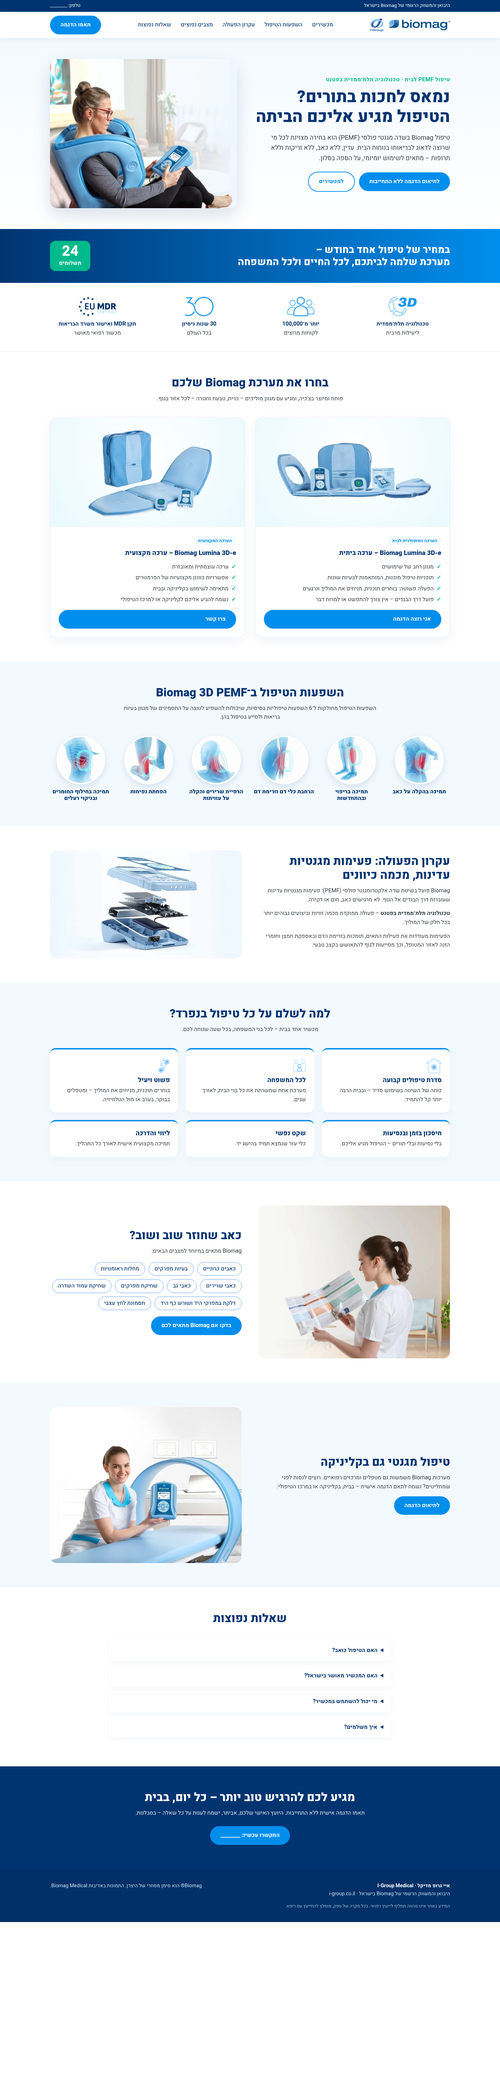
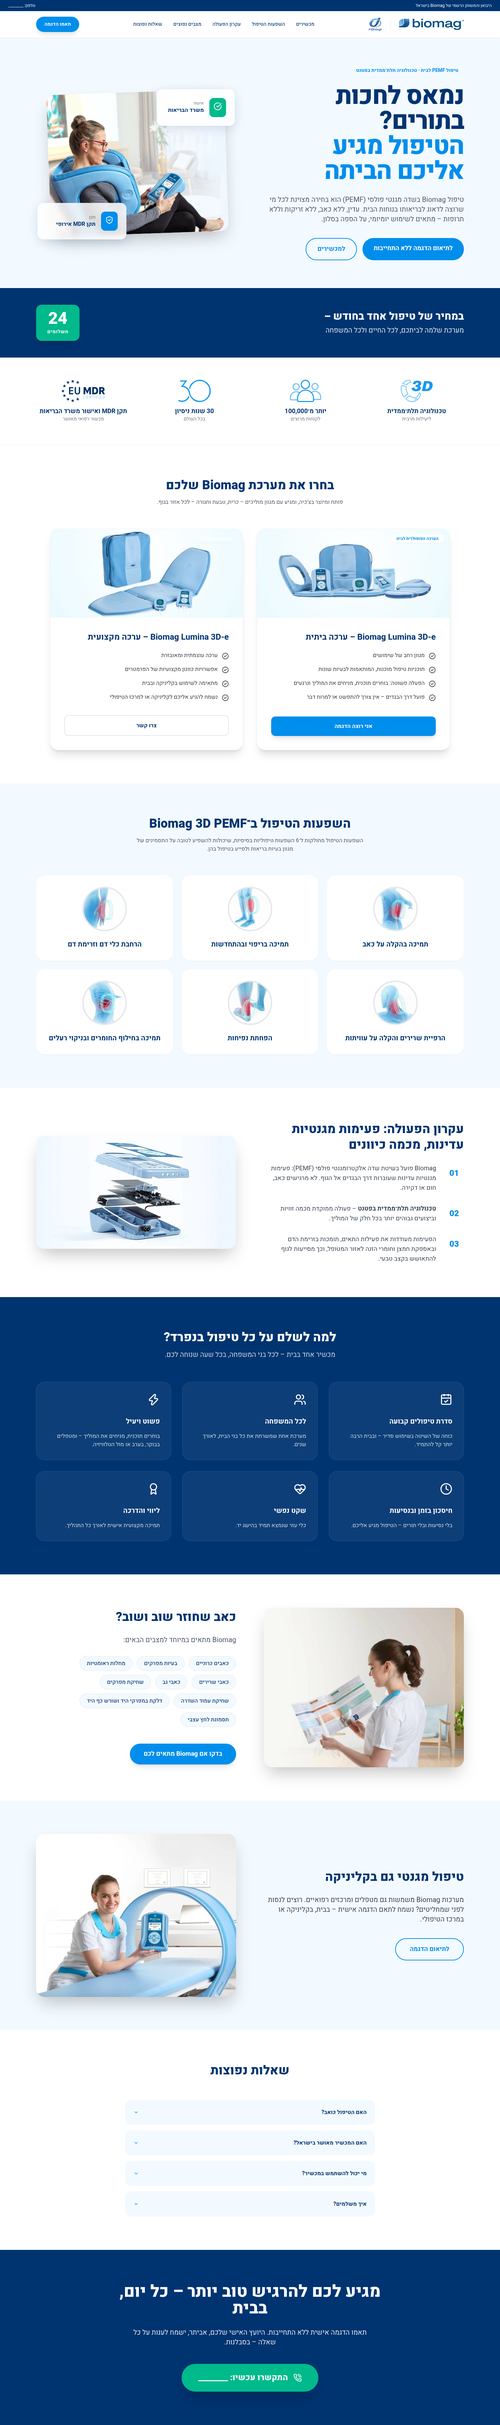
Superdesign modern medical redesign

diff --git a/index.html b/index.html
@@ -1,6 +1,4 @@
-<!doctype html>
-<html lang="he" dir="rtl">
-<head>
+<!DOCTYPE html><html lang="he" dir="rtl"><head>
 <meta charset="utf-8">
 <meta name="viewport" content="width=device-width,initial-scale=1">
 <title>Biomag – טיפול ביתי בשדה מגנטי פולסי (PEMF) | איי גרופ מדיקל</title>
@@ -32,137 +30,4 @@
 {"@type":"Question","name":"האם הטיפול כואב?","acceptedAnswer":{"@type":"Answer","text":"לא. הפעימות המגנטיות עדינות ועוברות דרך הבגדים, ללא כאב, ללא חום וללא דקירה."}},
 {"@type":"Question","name":"האם המכשיר מאושר בישראל?","acceptedAnswer":{"@type":"Answer","text":"כן. המכשיר מאושר על ידי משרד הבריאות ועומד בתקן האירופי למכשור רפואי (MDR)."}},
 {"@type":"Question","name":"איך משלמים?","acceptedAnswer":{"@type":"Answer","text":"במחיר של טיפול אחד בחודש, בפריסה ל־24 תשלומים."}}]}]}
-</script>
-<style>
-:root{--navy:#003471;--navy2:#003067;--blue:#008EEC;--sky:#579AF6;--green:#00BA8B;--light:#F3FAFF;--grey:#BFC3C8;--text:#32373C}
-*{box-sizing:border-box;margin:0;padding:0}body{font-family:Heebo,Roboto,sans-serif;color:var(--text);line-height:1.6;background:#fff}
-img{max-width:100%;display:block}a{color:inherit;text-decoration:none}
-.wrap{max-width:1200px;margin:auto;padding:0 24px}
-h1,h2,h3{color:var(--navy);line-height:1.2;font-weight:800}h2{font-size:2.1rem;margin-bottom:12px}
-.btn{display:inline-block;background:var(--blue);color:#fff;font-weight:700;padding:14px 30px;border-radius:40px;transition:.2s}.btn:hover{background:var(--navy)}
-.btn.ghost{background:transparent;border:2px solid var(--blue);color:var(--blue)}
-.top{background:var(--navy);color:#fff;font-size:.85rem;padding:6px 0}.top .wrap{display:flex;justify-content:space-between}
-header{position:sticky;top:0;background:#fff;box-shadow:0 2px 12px #0034711a;z-index:9}
-header .wrap{display:flex;align-items:center;justify-content:space-between;height:76px}
-header nav a{margin:0 14px;font-weight:500;color:var(--navy)}header nav a:hover{color:var(--blue)}
-.logos{display:flex;align-items:center;gap:16px}.logos img{height:30px}
-.hero{background:linear-gradient(180deg,var(--light),#fff);padding:60px 0}
-.hero .wrap{display:grid;grid-template-columns:1.05fr 1fr;gap:48px;align-items:center}
-.kicker{color:var(--green);font-weight:700;letter-spacing:.5px;margin-bottom:8px}
-.hero h1{font-size:3rem;margin-bottom:16px}.hero p{font-size:1.15rem;margin-bottom:24px}
-.hero img{border-radius:20px;box-shadow:0 20px 50px #00347126}
-.offer{background:linear-gradient(90deg,var(--navy),var(--blue));color:#fff;padding:34px 0}
-.offer .wrap{display:flex;align-items:center;justify-content:space-between;gap:24px;flex-wrap:wrap}
-.offer h2{color:#fff;font-size:1.8rem;margin:0}.badge{background:var(--green);border-radius:16px;padding:10px 26px;text-align:center;font-weight:700}
-.badge b{display:block;font-size:2.6rem;line-height:1}
-.trust{padding:40px 0;border-bottom:1px solid #e6e6e6}.trust .wrap{display:grid;grid-template-columns:repeat(4,1fr);gap:20px;text-align:center}
-.trust img{height:56px;margin:0 auto 10px}.trust b{color:var(--navy);display:block}
-section{padding:70px 0}.center{text-align:center;max-width:760px;margin:0 auto 40px}
-.sets{display:grid;grid-template-columns:1fr 1fr;gap:30px}
-.card{background:#fff;border:1px solid #e6eef7;border-radius:20px;overflow:hidden;box-shadow:0 10px 30px #0034710f;display:flex;flex-direction:column}
-.card .b{padding:24px;flex:1;display:flex;flex-direction:column;gap:10px}.card ul{list-style:none;flex:1}
-.card li{padding-right:22px;position:relative;margin:6px 0}.card li:before{content:"✓";color:var(--green);position:absolute;right:0;font-weight:800}
-.tag{align-self:flex-start;background:var(--light);color:var(--blue);font-weight:700;font-size:.8rem;padding:4px 12px;border-radius:20px}
-.light{background:var(--light)}
-.effects{display:grid;grid-template-columns:repeat(6,1fr);gap:18px;text-align:center}
-.effects img{border-radius:50%;width:140px;height:140px;object-fit:cover;margin:0 auto 12px;border:4px solid #fff;box-shadow:0 8px 20px #00347120}
-.effects h3{font-size:1rem}
-.split{display:grid;grid-template-columns:1fr 1fr;gap:48px;align-items:center}.split img{border-radius:20px}
-.split p{margin-bottom:14px}
-.why{display:grid;grid-template-columns:repeat(3,1fr);gap:22px}
-.why div{background:#fff;border-radius:16px;padding:24px;border-top:4px solid var(--blue);box-shadow:0 8px 24px #0034710d}
-.why h3{font-size:1.15rem;margin-bottom:6px}
-.chips{display:flex;flex-wrap:wrap;gap:10px;margin:18px 0}.chips span{background:#fff;border:1px solid var(--sky);color:var(--navy);padding:6px 16px;border-radius:30px;font-weight:500}
-.faq details{background:#fff;border-radius:12px;padding:18px 22px;margin-bottom:12px;box-shadow:0 4px 14px #0034710d}
-.faq summary{font-weight:700;color:var(--navy);cursor:pointer}
-.cta{background:var(--navy);color:#fff;text-align:center}.cta h2{color:#fff}.cta p{margin-bottom:24px;opacity:.9}
-footer{background:var(--navy2);color:#cfe0f5;padding:36px 0;font-size:.9rem}footer .wrap{display:flex;justify-content:space-between;gap:20px;flex-wrap:wrap}
-.disc{font-size:.8rem;opacity:.75;margin-top:14px}
-@media(max-width:900px){.hero .wrap,.sets,.split{grid-template-columns:1fr}.effects{grid-template-columns:repeat(3,1fr)}.trust .wrap,.why{grid-template-columns:1fr 1fr}header nav{display:none}.hero h1{font-size:2.2rem}}
-</style>
-</head>
-<body>
-<div class="top"><div class="wrap"><span>היבואן והמשווק הרשמי של Biomag בישראל</span><span>טלפון: ________</span></div></div>
-<header><div class="wrap">
-<div class="logos"><img src="img/logo.svg" alt="Biomag"><img src="img/igroup-logo.png" alt="איי גרופ מדיקל" style="height:40px"></div>
-<nav><a href="#sets">מכשירים</a><a href="#effects">השפעות הטיפול</a><a href="#principle">עקרון הפעולה</a><a href="#conditions">מצבים נפוצים</a><a href="#faq">שאלות נפוצות</a></nav>
-<a class="btn" href="#contact">תאמו הדגמה</a></div></header>
-
-<section class="hero" style="padding:60px 0"><div class="wrap">
-<div><div class="kicker">טיפול PEMF לבית · טכנולוגיה תלת־ממדית בפטנט</div>
-<h1>נמאס לחכות בתורים?<br>הטיפול מגיע אליכם הביתה</h1>
-<p>טיפול Biomag בשדה מגנטי פולסי (PEMF) הוא בחירה מצוינת לכל מי שרוצה לדאוג לבריאותו בנוחות הבית. עדין, ללא כאב, ללא זריקות וללא תרופות – מתאים לשימוש יומיומי, על הספה בסלון.</p>
-<a class="btn" href="#contact">לתיאום הדגמה ללא התחייבות</a> &nbsp; <a class="btn ghost" href="#sets">למכשירים</a></div>
-<img src="img/hero-home.jpg" alt="אישה מטפלת בעצמה בבית עם מכשיר Biomag"></div></section>
-
-<div class="offer"><div class="wrap"><h2>במחיר של טיפול אחד בחודש –<br>מערכת שלמה לביתכם, לכל החיים ולכל המשפחה</h2><div class="badge"><b>24</b>תשלומים</div></div></div>
-
-<div class="trust"><div class="wrap">
-<div><img src="img/3d-technologie.svg" alt=""><b>טכנולוגיה תלת־ממדית</b>ליעילות מרבית</div>
-<div><img src="img/100-000-spokojenych-zakazniku.svg" alt=""><b>יותר מ־100,000</b>לקוחות מרוצים</div>
-<div><img src="img/pomahame-jiz-30-let.svg" alt=""><b>30 שנות ניסיון</b>בכל העולם</div>
-<div><img src="img/eu-mdr-biomag-certified.svg" alt=""><b>תקן MDR ואישור משרד הבריאות</b>מכשור רפואי מאושר</div>
-</div></div>
-
-<section id="sets"><div class="wrap">
-<div class="center"><h2>בחרו את מערכת Biomag שלכם</h2><p>פותח ומיוצר בצ'כיה, ומגיע עם מגוון מוליכים – כרית, טבעת וחגורה – לכל אזור בגוף.</p></div>
-<div class="sets">
-<div class="card"><img src="img/set-fse.jpg" alt="ערכת Biomag Lumina 3D-e לטיפול ביתי"><div class="b"><span class="tag">הערכה הפופולרית לבית</span><h3>Biomag Lumina 3D-e – ערכה ביתית</h3><ul><li>מגוון רחב של שימושים</li><li>תוכניות טיפול מוכנות, המותאמות לבעיות שונות</li><li>הפעלה פשוטה: בוחרים תוכנית, מניחים את המוליך ונרגעים</li><li>פועל דרך הבגדים – אין צורך להתפשט או למרוח דבר</li></ul><a class="btn" href="#contact">אני רוצה הדגמה</a></div></div>
-<div class="card"><img src="img/set-nte.jpg" alt="ערכת Biomag Lumina 3D-e מקצועית"><div class="b"><span class="tag">הערכה המקצועית</span><h3>Biomag Lumina 3D-e – ערכה מקצועית</h3><ul><li>ערכה עוצמתית ומאובזרת</li><li>אפשרויות כוונון מקצועיות של הפרמטרים</li><li>מתאימה לשימוש בקליניקה ובבית</li><li>נשמח להגיע אליכם לקליניקה או למרכז הטיפולי</li></ul><a class="btn" href="#contact">צרו קשר</a></div></div>
-</div></div></section>
-
-<section id="effects" class="light"><div class="wrap">
-<div class="center"><h2>השפעות הטיפול ב־Biomag 3D PEMF</h2><p>השפעות הטיפול מחולקות ל־6 השפעות טיפוליות בסיסיות, שיכולות להשפיע לטובה על התסמינים של מגוון בעיות בריאות ולסייע בטיפול בהן.</p></div>
-<div class="effects">
-<div><img src="img/e-pain.jpg" alt=""><h3>תמיכה בהקלה על כאב</h3></div>
-<div><img src="img/e-heal.jpg" alt=""><h3>תמיכה בריפוי ובהתחדשות</h3></div>
-<div><img src="img/e-blood.jpg" alt=""><h3>הרחבת כלי דם וזרימת דם</h3></div>
-<div><img src="img/e-relax.jpg" alt=""><h3>הרפיית שרירים והקלה על עוויתות</h3></div>
-<div><img src="img/e-swell.jpg" alt=""><h3>הפחתת נפיחות</h3></div>
-<div><img src="img/e-detox.jpg" alt=""><h3>תמיכה בחילוף החומרים ובניקוי רעלים</h3></div>
-</div></div></section>
-
-<section id="principle"><div class="wrap split">
-<div><h2>עקרון הפעולה: פעימות מגנטיות עדינות, מכמה כיוונים</h2>
-<p>Biomag פועל בשיטת שדה אלקטרומגנטי פולסי (PEMF): פעימות מגנטיות עדינות שעוברות דרך הבגדים אל הגוף. לא מרגישים כאב, חום או דקירה.</p>
-<p><b>טכנולוגיה תלת־ממדית בפטנט</b> – פעולה ממוקדת מכמה זוויות וביצועים גבוהים יותר בכל חלק של המוליך.</p>
-<p>הפעימות מעודדות את פעילות התאים, תומכות בזרימת הדם ובאספקת חמצן וחומרי הזנה לאזור המטופל, וכך מסייעות לגוף להתאושש בקצב טבעי.</p></div>
-<img src="img/tech3d.jpg" alt="מבנה פנימי של מכשיר Biomag בטכנולוגיה תלת־ממדית"></div></section>
-
-<section class="light"><div class="wrap">
-<div class="center"><h2>למה לשלם על כל טיפול בנפרד?</h2><p>מכשיר אחד בבית – לכל בני המשפחה, בכל שעה שנוחה לכם.</p></div>
-<div class="why">
-<div><img src="img/pro-domaci-peci.svg" alt="" style="height:44px;margin-bottom:10px"><h3>סדרת טיפולים קבועה</h3>כוחה של השיטה בשימוש סדיר – ובבית הרבה יותר קל להתמיד.</div>
-<div><img src="img/pro-celou-rodinu-2.svg" alt="" style="height:44px;margin-bottom:10px"><h3>לכל המשפחה</h3>מערכת אחת שמשרתת את כל בני הבית, לאורך שנים.</div>
-<div><img src="img/snadne-pouziti-a-vysoka-ucinnost.svg" alt="" style="height:44px;margin-bottom:10px"><h3>פשוט ויעיל</h3>בוחרים תוכנית, מניחים את המוליך – ומטפלים בבוקר, בערב או מול הטלוויזיה.</div>
-<div><h3>חיסכון בזמן ובנסיעות</h3>בלי נסיעות ובלי תורים – הטיפול מגיע אליכם.</div>
-<div><h3>שקט נפשי</h3>כלי עזר שנמצא תמיד בהישג יד.</div>
-<div><h3>ליווי והדרכה</h3>תמיכה מקצועית אישית לאורך כל התהליך.</div>
-</div></div></section>
-
-<section id="conditions"><div class="wrap split">
-<img src="img/conditions.jpg" alt="טיפול Biomag בבעיות בריאות נפוצות">
-<div><h2>כאב שחוזר שוב ושוב?</h2><p>Biomag מתאים במיוחד למצבים הבאים:</p>
-<div class="chips"><span>כאבים כרוניים</span><span>בעיות מפרקים</span><span>מחלות ראומטיות</span><span>כאבי שרירים</span><span>כאבי גב</span><span>שחיקת מפרקים</span><span>שחיקת עמוד השדרה</span><span>דלקת במפרקי היד ושורש כף היד</span><span>תסמונת לחץ עצבי</span></div>
-<a class="btn" href="#contact">בדקו אם Biomag מתאים לכם</a></div></div></section>
-
-<section class="light"><div class="wrap split">
-<div><h2>טיפול מגנטי גם בקליניקה</h2><p>מערכות Biomag משמשות גם מטפלים ומרכזים רפואיים. רוצים לנסות לפני שמחליטים? נשמח לתאם הדגמה אישית – בבית, בקליניקה או במרכז הטיפולי.</p><a class="btn" href="#contact">לתיאום הדגמה</a></div>
-<img src="img/clinic.jpg" alt="טיפול Biomag בקליניקה"></div></section>
-
-<section id="faq"><div class="wrap" style="max-width:860px">
-<div class="center"><h2>שאלות נפוצות</h2></div><div class="faq">
-<details><summary>האם הטיפול כואב?</summary><p>לא. הפעימות המגנטיות עדינות ועוברות דרך הבגדים, ללא כאב, ללא חום וללא דקירה.</p></details>
-<details><summary>האם המכשיר מאושר בישראל?</summary><p>כן. המכשיר מאושר על ידי משרד הבריאות ועומד בתקן האירופי למכשור רפואי (MDR).</p></details>
-<details><summary>מי יכול להשתמש במכשיר?</summary><p>מערכת אחת משרתת את כל בני הבית. בכל מקרה של ספק, מומלץ להתייעץ עם רופא.</p></details>
-<details><summary>איך משלמים?</summary><p>במחיר של טיפול אחד בחודש, בפריסה ל־24 תשלומים.</p></details>
-</div></div></section>
-
-<section id="contact" class="cta"><div class="wrap">
-<h2>מגיע לכם להרגיש טוב יותר – כל יום, בבית</h2>
-<p>תאמו הדגמה אישית ללא התחייבות. היועץ האישי שלכם, אביתר, ישמח לענות על כל שאלה – בסבלנות.</p>
-<a class="btn" href="tel:">התקשרו עכשיו: ________</a></div></section>
-
-<footer><div class="wrap"><div><b style="color:#fff">איי גרופ מדיקל · I-Group Medical</b><br>היבואן והמשווק הרשמי של Biomag בישראל · i-group.co.il</div><div>Biomag® הוא סימן מסחרי של היצרן. התמונות באדיבות Biomag Medical.</div></div>
-<div class="wrap disc">המידע באתר אינו מהווה תחליף לייעוץ רפואי. בכל מקרה של ספק, מומלץ להתייעץ עם רופא.</div></footer>
-</body></html>
+</script><script src="https://cdn.tailwindcss.com"></script><script src="https://code.iconify.design/iconify-icon/1.0.7/iconify-icon.min.js"></script><link rel="preconnect" href="https://fonts.googleapis.com"><link rel="preconnect" href="https://fonts.gstatic.com" crossorigin=""><link href="https://fonts.googleapis.com/css2?family=Heebo:wght@300;400;500;700;800&amp;display=swap" rel="stylesheet"><style>body{font-family:'Heebo',sans-serif;background-color:#ffffff;color:#32373C;scroll-behavior:smooth}:root{--navy:#003471;--navy2:#003067;--blue:#008EEC;--sky:#579AF6;--green:#00BA8B;--light:#F3FAFF;--text:#32373C}.bg-navy{background-color:var(--navy)}.text-navy{color:var(--navy)}.bg-light{background-color:var(--light)}.bg-blue-accent{background-color:var(--blue)}.text-blue-accent{color:var(--blue)}.border-blue-accent{border-color:var(--blue)}.bg-green-accent{background-color:var(--green)}.rounded-xl-custom{border-radius:24px}.glass-card{background:rgba(255,255,255,0.85);backdrop-filter:blur(8px);border:1px solid rgba(255,255,255,0.2);box-shadow:0 8px 32px 0 rgba(0,52,113,0.15)}summary::-webkit-details-marker{display:none}</style></head><body><div class="min-h-screen overflow-x-hidden" data-sd-id="1"><div class="bg-navy text-white text-xs py-2 px-6 flex justify-between items-center" data-sd-id="2"><div class="flex gap-4" data-sd-id="3"><span data-sd-id="4">היבואן והמשווק הרשמי של Biomag בישראל</span></div><div data-sd-id="5"><span data-sd-id="6">טלפון: ________</span></div></div><header class="sticky top-0 bg-white z-50 shadow-sm border-b border-gray-100" data-sd-id="7"><div class="max-w-7xl mx-auto px-6 py-4 flex items-center justify-between" data-sd-id="8"><div class="flex items-center gap-6" data-sd-id="9"><img src="img/logo.svg" alt="Biomag" class="h-8" data-sd-id="10"><div class="h-8 w-px bg-gray-200" data-sd-id="11"></div><img src="img/igroup-logo.png" alt="איי גרופ מדיקל" class="h-10" data-sd-id="12"></div><nav class="hidden md:flex gap-8 text-navy font-medium text-sm" data-sd-id="13"><a href="#sets" id="nav-sets-link" class="hover:text-blue-accent transition-colors" data-sd-id="14">מכשירים</a><a href="#effects" id="nav-effects-link" class="hover:text-blue-accent transition-colors" data-sd-id="15">השפעות הטיפול</a><a href="#principle" id="nav-principle-link" class="hover:text-blue-accent transition-colors" data-sd-id="16">עקרון הפעולה</a><a href="#conditions" id="nav-conditions-link" class="hover:text-blue-accent transition-colors" data-sd-id="17">מצבים נפוצים</a><a href="#faq" id="nav-faq-link" class="hover:text-blue-accent transition-colors" data-sd-id="18">שאלות נפוצות</a></nav><a href="#contact" id="nav-cta-btn" class="bg-blue-accent text-white px-6 py-3 rounded-full font-bold text-sm hover:bg-navy transition-all shadow-lg" data-sd-id="19">תאמו הדגמה</a></div></header><section class="relative bg-light overflow-hidden pt-12 lg:pt-20 pb-20" data-sd-id="20"><div class="max-w-7xl mx-auto px-6 grid lg:grid-cols-2 gap-16 items-center" data-sd-id="21"><div class="relative z-10 text-right" data-sd-id="22"><span class="inline-block px-4 py-1 rounded-full bg-blue-accent/10 text-blue-accent font-bold text-sm mb-6" data-sd-id="23">טיפול PEMF לבית · טכנולוגיה תלת־ממדית בפטנט</span><h1 class="text-5xl lg:text-7xl font-extrabold text-navy leading-tight mb-8 tracking-tight" data-sd-id="24">נמאס לחכות בתורים?<br><span class="text-blue-accent" data-sd-id="25">הטיפול מגיע אליכם הביתה</span></h1><p class="text-xl text-gray-600 mb-10 max-w-xl" data-sd-id="26">טיפול Biomag בשדה מגנטי פולסי (PEMF) הוא בחירה מצוינת לכל מי שרוצה לדאוג לבריאותו בנוחות הבית. עדין, ללא כאב, ללא זריקות וללא תרופות – מתאים לשימוש יומיומי, על הספה בסלון.</p><div class="flex flex-wrap gap-4 justify-start" data-sd-id="27"><a href="#contact" id="hero-primary-cta" class="bg-blue-accent text-white px-8 py-4 rounded-full font-bold text-lg hover:shadow-xl hover:-translate-y-1 transition-all" data-sd-id="28">לתיאום הדגמה ללא התחייבות</a><a href="#sets" id="hero-secondary-cta" class="border-2 border-blue-accent text-blue-accent px-8 py-4 rounded-full font-bold text-lg hover:bg-blue-accent hover:text-white transition-all" data-sd-id="29">למכשירים</a></div></div><div class="relative flex justify-center" data-sd-id="30"><div class="relative w-full max-w-lg animate-fade-in" data-sd-id="31"><img src="img/hero-home.jpg" alt="טיפול ביתי" class="rounded-xl-custom shadow-2xl relative z-0 transform -rotate-2 hover:rotate-0 transition-transform duration-500" data-sd-id="32"><div class="absolute -top-6 -right-6 glass-card p-6 rounded-2xl flex items-center gap-4 z-20 w-56 transform translate-y-4" data-sd-id="33"><div class="bg-green-accent text-white p-3 rounded-xl" data-sd-id="34"><iconify-icon icon="lucide:check-circle" class="text-2xl"></iconify-icon></div><div data-sd-id="35"><div class="text-xs text-gray-500" data-sd-id="36">אישור</div><div class="font-bold text-navy" data-sd-id="37">משרד הבריאות</div></div></div><div class="absolute -bottom-8 -left-8 glass-card p-6 rounded-2xl flex items-center gap-4 z-20 w-64 transform -translate-y-4" data-sd-id="38"><div class="bg-blue-accent text-white p-3 rounded-xl" data-sd-id="39"><iconify-icon icon="lucide:shield-check" class="text-2xl"></iconify-icon></div><div data-sd-id="40"><div class="text-xs text-gray-500" data-sd-id="41">תקן</div><div class="font-bold text-navy" data-sd-id="42">תקן MDR אירופי</div></div></div></div></div></div></section><section class="bg-navy py-12 text-white overflow-hidden" data-sd-id="43"><div class="max-w-7xl mx-auto px-6 flex flex-col md:flex-row items-center justify-between gap-8" data-sd-id="44"><div class="text-right" data-sd-id="45"><h2 class="text-2xl md:text-3xl font-extrabold mb-2" data-sd-id="46">במחיר של טיפול אחד בחודש –</h2><p class="text-xl opacity-90" data-sd-id="47">מערכת שלמה לביתכם, לכל החיים ולכל המשפחה</p></div><div class="flex items-center gap-6" data-sd-id="48"><div class="bg-green-accent px-8 py-4 rounded-2xl text-center transform hover:scale-105 transition-transform cursor-default shadow-xl" data-sd-id="49"><span class="block text-5xl font-black leading-none" data-sd-id="50">24</span><span class="block text-sm font-bold uppercase tracking-wider mt-1" data-sd-id="51">תשלומים</span></div></div></div></section><section class="py-16 border-b border-gray-100 bg-white" data-sd-id="52"><div class="max-w-7xl mx-auto px-6 grid grid-cols-2 lg:grid-cols-4 gap-12 text-center" data-sd-id="53"><div class="flex flex-col items-center" data-sd-id="54"><img src="img/3d-technologie.svg" alt="3D" class="h-16 mb-4" data-sd-id="55"><b class="text-navy text-lg block leading-tight">טכנולוגיה תלת־ממדית</b><span class="text-gray-500 text-sm" data-sd-id="56">ליעילות מרבית</span></div><div class="flex flex-col items-center" data-sd-id="57"><img src="img/100-000-spokojenych-zakazniku.svg" alt="100k" class="h-16 mb-4" data-sd-id="58"><b class="text-navy text-lg block leading-tight">יותר מ־100,000</b><span class="text-gray-500 text-sm" data-sd-id="59">לקוחות מרוצים</span></div><div class="flex flex-col items-center" data-sd-id="60"><img src="img/pomahame-jiz-30-let.svg" alt="30 years" class="h-16 mb-4" data-sd-id="61"><b class="text-navy text-lg block leading-tight">30 שנות ניסיון</b><span class="text-gray-500 text-sm" data-sd-id="62">בכל העולם</span></div><div class="flex flex-col items-center" data-sd-id="63"><img src="img/eu-mdr-biomag-certified.svg" alt="MDR" class="h-16 mb-4" data-sd-id="64"><b class="text-navy text-lg block leading-tight">תקן MDR ואישור משרד הבריאות</b><span class="text-gray-500 text-sm" data-sd-id="65">מכשור רפואי מאושר</span></div></div></section><section id="sets" class="py-24" data-sd-id="66"><div class="max-w-7xl mx-auto px-6 text-center mb-16" data-sd-id="67"><h2 class="text-4xl font-extrabold text-navy mb-4" data-sd-id="68">בחרו את מערכת Biomag שלכם</h2><p class="text-gray-600 max-w-2xl mx-auto" data-sd-id="69">פותח ומיוצר בצ'כיה, ומגיע עם מגוון מוליכים – כרית, טבעת וחגורה – לכל אזור בגוף.</p></div><div class="max-w-6xl mx-auto grid md:grid-cols-2 gap-10" data-sd-id="70"><div class="group bg-white rounded-xl-custom border border-gray-100 shadow-xl overflow-hidden hover:shadow-2xl transition-all flex flex-col" data-sd-id="71"><div class="relative h-64 overflow-hidden" data-sd-id="72"><img src="img/set-fse.jpg" alt="ערכה ביתית" class="w-full h-full object-cover group-hover:scale-105 transition-transform duration-700" data-sd-id="73"><div class="absolute top-4 right-4 bg-white/90 backdrop-blur px-4 py-1 rounded-full text-blue-accent font-bold text-xs shadow-sm" data-sd-id="74">הערכה הפופולרית לבית</div></div><div class="p-10 flex flex-col flex-grow" data-sd-id="75"><h3 class="text-2xl font-bold text-navy mb-6" data-sd-id="76">Biomag Lumina 3D-e – ערכה ביתית</h3><ul class="space-y-4 mb-10 flex-grow" data-sd-id="77"><li class="flex items-start gap-3" data-sd-id="78"><iconify-icon icon="lucide:check-circle-2" class="text-green-accent text-xl mt-1"></iconify-icon><span data-sd-id="79">מגוון רחב של שימושים</span></li><li class="flex items-start gap-3" data-sd-id="80"><iconify-icon icon="lucide:check-circle-2" class="text-green-accent text-xl mt-1"></iconify-icon><span data-sd-id="81">תוכניות טיפול מוכנות, המותאמות לבעיות שונות</span></li><li class="flex items-start gap-3" data-sd-id="82"><iconify-icon icon="lucide:check-circle-2" class="text-green-accent text-xl mt-1"></iconify-icon><span data-sd-id="83">הפעלה פשוטה: בוחרים תוכנית, מניחים את המוליך ונרגעים</span></li><li class="flex items-start gap-3" data-sd-id="84"><iconify-icon icon="lucide:check-circle-2" class="text-green-accent text-xl mt-1"></iconify-icon><span data-sd-id="85">פועל דרך הבגדים – אין צורך להתפשט או למרוח דבר</span></li></ul><a href="#contact" id="set-home-cta" class="w-full bg-blue-accent text-white py-4 rounded-xl font-bold text-center hover:bg-navy transition-colors shadow-lg" data-sd-id="86">אני רוצה הדגמה</a></div></div><div class="group bg-white rounded-xl-custom border border-gray-100 shadow-xl overflow-hidden hover:shadow-2xl transition-all flex flex-col" data-sd-id="87"><div class="relative h-64 overflow-hidden" data-sd-id="88"><img src="img/set-nte.jpg" alt="ערכה מקצועית" class="w-full h-full object-cover group-hover:scale-105 transition-transform duration-700" data-sd-id="89"><div class="absolute top-4 right-4 bg-navy/90 backdrop-blur px-4 py-1 rounded-full text-white font-bold text-xs shadow-sm" data-sd-id="90">הערכה המקצועית</div></div><div class="p-10 flex flex-col flex-grow" data-sd-id="91"><h3 class="text-2xl font-bold text-navy mb-6" data-sd-id="92">Biomag Lumina 3D-e – ערכה מקצועית</h3><ul class="space-y-4 mb-10 flex-grow" data-sd-id="93"><li class="flex items-start gap-3" data-sd-id="94"><iconify-icon icon="lucide:check-circle-2" class="text-green-accent text-xl mt-1"></iconify-icon><span data-sd-id="95">ערכה עוצמתית ומאובזרת</span></li><li class="flex items-start gap-3" data-sd-id="96"><iconify-icon icon="lucide:check-circle-2" class="text-green-accent text-xl mt-1"></iconify-icon><span data-sd-id="97">אפשרויות כוונון מקצועיות של הפרמטרים</span></li><li class="flex items-start gap-3" data-sd-id="98"><iconify-icon icon="lucide:check-circle-2" class="text-green-accent text-xl mt-1"></iconify-icon><span data-sd-id="99">מתאימה לשימוש בקליניקה ובבית</span></li><li class="flex items-start gap-3" data-sd-id="100"><iconify-icon icon="lucide:check-circle-2" class="text-green-accent text-xl mt-1"></iconify-icon><span data-sd-id="101">נשמח להגיע אליכם לקליניקה או למרכז הטיפולי</span></li></ul><a href="#contact" id="set-pro-cta" class="w-full border-2 border-navy text-navy py-4 rounded-xl font-bold text-center hover:bg-navy hover:text-white transition-all" data-sd-id="102">צרו קשר</a></div></div></div></section><section id="effects" class="py-24 bg-light" data-sd-id="103"><div class="max-w-7xl mx-auto px-6" data-sd-id="104"><div class="text-center mb-16" data-sd-id="105"><h2 class="text-4xl font-extrabold text-navy mb-4" data-sd-id="106">השפעות הטיפול ב־Biomag 3D PEMF</h2><p class="text-gray-600 max-w-2xl mx-auto" data-sd-id="107">השפעות הטיפול מחולקות ל־6 השפעות טיפוליות בסיסיות, שיכולות להשפיע לטובה על התסמינים של מגוון בעיות בריאות ולסייע בטיפול בהן.</p></div><div class="grid md:grid-cols-2 lg:grid-cols-3 gap-6" data-sd-id="108"><div class="bg-white p-8 rounded-xl-custom shadow-sm hover:shadow-xl transition-all border border-gray-50 flex flex-col items-center text-center" data-sd-id="109"><div class="w-32 h-32 rounded-full overflow-hidden mb-6 border-4 border-light shadow-inner" data-sd-id="110"><img src="img/e-pain.jpg" alt="pain" class="w-full h-full object-cover" data-sd-id="111"></div><h3 class="text-xl font-bold text-navy" data-sd-id="112">תמיכה בהקלה על כאב</h3></div><div class="bg-white p-8 rounded-xl-custom shadow-sm hover:shadow-xl transition-all border border-gray-50 flex flex-col items-center text-center" data-sd-id="113"><div class="w-32 h-32 rounded-full overflow-hidden mb-6 border-4 border-light shadow-inner" data-sd-id="114"><img src="img/e-heal.jpg" alt="heal" class="w-full h-full object-cover" data-sd-id="115"></div><h3 class="text-xl font-bold text-navy" data-sd-id="116">תמיכה בריפוי ובהתחדשות</h3></div><div class="bg-white p-8 rounded-xl-custom shadow-sm hover:shadow-xl transition-all border border-gray-50 flex flex-col items-center text-center" data-sd-id="117"><div class="w-32 h-32 rounded-full overflow-hidden mb-6 border-4 border-light shadow-inner" data-sd-id="118"><img src="img/e-blood.jpg" alt="blood" class="w-full h-full object-cover" data-sd-id="119"></div><h3 class="text-xl font-bold text-navy" data-sd-id="120">הרחבת כלי דם וזרימת דם</h3></div><div class="bg-white p-8 rounded-xl-custom shadow-sm hover:shadow-xl transition-all border border-gray-50 flex flex-col items-center text-center" data-sd-id="121"><div class="w-32 h-32 rounded-full overflow-hidden mb-6 border-4 border-light shadow-inner" data-sd-id="122"><img src="img/e-relax.jpg" alt="relax" class="w-full h-full object-cover" data-sd-id="123"></div><h3 class="text-xl font-bold text-navy" data-sd-id="124">הרפיית שרירים והקלה על עוויתות</h3></div><div class="bg-white p-8 rounded-xl-custom shadow-sm hover:shadow-xl transition-all border border-gray-50 flex flex-col items-center text-center" data-sd-id="125"><div class="w-32 h-32 rounded-full overflow-hidden mb-6 border-4 border-light shadow-inner" data-sd-id="126"><img src="img/e-swell.jpg" alt="swell" class="w-full h-full object-cover" data-sd-id="127"></div><h3 class="text-xl font-bold text-navy" data-sd-id="128">הפחתת נפיחות</h3></div><div class="bg-white p-8 rounded-xl-custom shadow-sm hover:shadow-xl transition-all border border-gray-50 flex flex-col items-center text-center" data-sd-id="129"><div class="w-32 h-32 rounded-full overflow-hidden mb-6 border-4 border-light shadow-inner" data-sd-id="130"><img src="img/e-detox.jpg" alt="detox" class="w-full h-full object-cover" data-sd-id="131"></div><h3 class="text-xl font-bold text-navy" data-sd-id="132">תמיכה בחילוף החומרים ובניקוי רעלים</h3></div></div></div></section><section id="principle" class="py-24" data-sd-id="133"><div class="max-w-7xl mx-auto px-6 grid lg:grid-cols-2 gap-20 items-center" data-sd-id="134"><div class="order-2 lg:order-1" data-sd-id="135"><h2 class="text-4xl font-extrabold text-navy leading-tight mb-8" data-sd-id="136">עקרון הפעולה: פעימות מגנטיות עדינות, מכמה כיוונים</h2><div class="space-y-8" data-sd-id="137"><div class="flex gap-6" data-sd-id="138"><div class="w-14 h-14 shrink-0 bg-blue-accent/10 rounded-2xl flex items-center justify-center text-blue-accent font-black text-2xl" data-sd-id="139">01</div><div data-sd-id="140"><p class="text-lg text-gray-700" data-sd-id="141">Biomag פועל בשיטת שדה אלקטרומגנטי פולסי (PEMF): פעימות מגנטיות עדינות שעוברות דרך הבגדים אל הגוף. לא מרגישים כאב, חום או דקירה.</p></div></div><div class="flex gap-6" data-sd-id="142"><div class="w-14 h-14 shrink-0 bg-blue-accent/10 rounded-2xl flex items-center justify-center text-blue-accent font-black text-2xl" data-sd-id="143">02</div><div data-sd-id="144"><p class="text-lg text-gray-700" data-sd-id="145"><b>טכנולוגיה תלת־ממדית בפטנט</b> – פעולה ממוקדת מכמה זוויות וביצועים גבוהים יותר בכל חלק של המוליך.</p></div></div><div class="flex gap-6" data-sd-id="146"><div class="w-14 h-14 shrink-0 bg-blue-accent/10 rounded-2xl flex items-center justify-center text-blue-accent font-black text-2xl" data-sd-id="147">03</div><div data-sd-id="148"><p class="text-lg text-gray-700" data-sd-id="149">הפעימות מעודדות את פעילות התאים, תומכות בזרימת הדם ובאספקת חמצן וחומרי הזנה לאזור המטופל, וכך מסייעות לגוף להתאושש בקצב טבעי.</p></div></div></div></div><div class="order-1 lg:order-2 relative" data-sd-id="150"><img src="img/tech3d.jpg" alt="מבנה טכנולוגי" class="rounded-xl-custom shadow-2xl w-full" data-sd-id="151"></div></div></section><section class="py-24 bg-navy text-white overflow-hidden relative" data-sd-id="152"><div class="max-w-7xl mx-auto px-6 relative z-10" data-sd-id="153"><div class="text-center mb-16" data-sd-id="154"><h2 class="text-4xl font-extrabold mb-4" data-sd-id="155">למה לשלם על כל טיפול בנפרד?</h2><p class="text-xl opacity-80" data-sd-id="156">מכשיר אחד בבית – לכל בני המשפחה, בכל שעה שנוחה לכם.</p></div><div class="grid md:grid-cols-3 gap-8" data-sd-id="157"><div class="bg-white/5 backdrop-blur-sm p-8 rounded-xl-custom border border-white/10 text-right hover:bg-white/10 transition-colors" data-sd-id="158"><iconify-icon icon="lucide:calendar-check" class="text-4xl text-green-accent mb-6"></iconify-icon><h3 class="text-xl font-bold mb-4" data-sd-id="159">סדרת טיפולים קבועה</h3><p class="opacity-80" data-sd-id="160">כוחה של השיטה בשימוש סדיר – ובבית הרבה יותר קל להתמיד.</p></div><div class="bg-white/5 backdrop-blur-sm p-8 rounded-xl-custom border border-white/10 text-right hover:bg-white/10 transition-colors" data-sd-id="161"><iconify-icon icon="lucide:users" class="text-4xl text-green-accent mb-6"></iconify-icon><h3 class="text-xl font-bold mb-4" data-sd-id="162">לכל המשפחה</h3><p class="opacity-80" data-sd-id="163">מערכת אחת שמשרתת את כל בני הבית, לאורך שנים.</p></div><div class="bg-white/5 backdrop-blur-sm p-8 rounded-xl-custom border border-white/10 text-right hover:bg-white/10 transition-colors" data-sd-id="164"><iconify-icon icon="lucide:zap" class="text-4xl text-green-accent mb-6"></iconify-icon><h3 class="text-xl font-bold mb-4" data-sd-id="165">פשוט ויעיל</h3><p class="opacity-80" data-sd-id="166">בוחרים תוכנית, מניחים את המוליך – ומטפלים בבוקר, בערב או מול הטלוויזיה.</p></div><div class="bg-white/5 backdrop-blur-sm p-8 rounded-xl-custom border border-white/10 text-right hover:bg-white/10 transition-colors" data-sd-id="167"><iconify-icon icon="lucide:clock" class="text-4xl text-green-accent mb-6"></iconify-icon><h3 class="text-xl font-bold mb-4" data-sd-id="168">חיסכון בזמן ובנסיעות</h3><p class="opacity-80" data-sd-id="169">בלי נסיעות ובלי תורים – הטיפול מגיע אליכם.</p></div><div class="bg-white/5 backdrop-blur-sm p-8 rounded-xl-custom border border-white/10 text-right hover:bg-white/10 transition-colors" data-sd-id="170"><iconify-icon icon="lucide:heart-pulse" class="text-4xl text-green-accent mb-6"></iconify-icon><h3 class="text-xl font-bold mb-4" data-sd-id="171">שקט נפשי</h3><p class="opacity-80" data-sd-id="172">כלי עזר שנמצא תמיד בהישג יד.</p></div><div class="bg-white/5 backdrop-blur-sm p-8 rounded-xl-custom border border-white/10 text-right hover:bg-white/10 transition-colors" data-sd-id="173"><iconify-icon icon="lucide:award" class="text-4xl text-green-accent mb-6"></iconify-icon><h3 class="text-xl font-bold mb-4" data-sd-id="174">ליווי והדרכה</h3><p class="opacity-80" data-sd-id="175">תמיכה מקצועית אישית לאורך כל התהליך.</p></div></div></div></section><section id="conditions" class="py-24 bg-white" data-sd-id="176"><div class="max-w-7xl mx-auto px-6 grid lg:grid-cols-2 gap-20 items-center" data-sd-id="177"><div class="relative" data-sd-id="178"><img src="img/conditions.jpg" alt="Conditions" class="rounded-xl-custom shadow-2xl w-full" data-sd-id="179"></div><div data-sd-id="180"><h2 class="text-4xl font-extrabold text-navy mb-8" data-sd-id="181">כאב שחוזר שוב ושוב?</h2><p class="text-xl text-gray-600 mb-8" data-sd-id="182">Biomag מתאים במיוחד למצבים הבאים:</p><div class="flex flex-wrap gap-3 mb-12" data-sd-id="183"><span class="px-5 py-2 rounded-full bg-light border border-blue-accent/20 text-navy font-medium hover:bg-blue-accent hover:text-white transition-all cursor-default" data-sd-id="184">כאבים כרוניים</span><span class="px-5 py-2 rounded-full bg-light border border-blue-accent/20 text-navy font-medium hover:bg-blue-accent hover:text-white transition-all cursor-default" data-sd-id="185">בעיות מפרקים</span><span class="px-5 py-2 rounded-full bg-light border border-blue-accent/20 text-navy font-medium hover:bg-blue-accent hover:text-white transition-all cursor-default" data-sd-id="186">מחלות ראומטיות</span><span class="px-5 py-2 rounded-full bg-light border border-blue-accent/20 text-navy font-medium hover:bg-blue-accent hover:text-white transition-all cursor-default" data-sd-id="187">כאבי שרירים</span><span class="px-5 py-2 rounded-full bg-light border border-blue-accent/20 text-navy font-medium hover:bg-blue-accent hover:text-white transition-all cursor-default" data-sd-id="188">כאבי גב</span><span class="px-5 py-2 rounded-full bg-light border border-blue-accent/20 text-navy font-medium hover:bg-blue-accent hover:text-white transition-all cursor-default" data-sd-id="189">שחיקת מפרקים</span><span class="px-5 py-2 rounded-full bg-light border border-blue-accent/20 text-navy font-medium hover:bg-blue-accent hover:text-white transition-all cursor-default" data-sd-id="190">שחיקת עמוד השדרה</span><span class="px-5 py-2 rounded-full bg-light border border-blue-accent/20 text-navy font-medium hover:bg-blue-accent hover:text-white transition-all cursor-default" data-sd-id="191">דלקת במפרקי היד ושורש כף היד</span><span class="px-5 py-2 rounded-full bg-light border border-blue-accent/20 text-navy font-medium hover:bg-blue-accent hover:text-white transition-all cursor-default" data-sd-id="192">תסמונת לחץ עצבי</span></div><a href="#contact" id="conditions-cta" class="inline-block bg-blue-accent text-white px-10 py-4 rounded-full font-bold text-lg shadow-lg hover:shadow-xl hover:-translate-y-1 transition-all" data-sd-id="193">בדקו אם Biomag מתאים לכם</a></div></div></section><section class="py-24 bg-light" data-sd-id="194"><div class="max-w-7xl mx-auto px-6 grid lg:grid-cols-2 gap-20 items-center" data-sd-id="195"><div class="order-2 lg:order-1" data-sd-id="196"><h2 class="text-4xl font-extrabold text-navy mb-8" data-sd-id="197">טיפול מגנטי גם בקליניקה</h2><p class="text-xl text-gray-700 mb-10" data-sd-id="198">מערכות Biomag משמשות גם מטפלים ומרכזים רפואיים. רוצים לנסות לפני שמחליטים? נשמח לתאם הדגמה אישית – בבית, בקליניקה או במרכז הטיפולי.</p><a href="#contact" id="clinic-cta" class="inline-block border-2 border-blue-accent text-blue-accent px-10 py-4 rounded-full font-bold text-lg hover:bg-blue-accent hover:text-white transition-all" data-sd-id="199">לתיאום הדגמה</a></div><div class="order-1 lg:order-2" data-sd-id="200"><img src="img/clinic.jpg" alt="Clinic" class="rounded-xl-custom shadow-2xl w-full" data-sd-id="201"></div></div></section><section id="faq" class="py-24 bg-white" data-sd-id="202"><div class="max-w-3xl mx-auto px-6" data-sd-id="203"><div class="text-center mb-16" data-sd-id="204"><h2 class="text-4xl font-extrabold text-navy" data-sd-id="205">שאלות נפוצות</h2></div><div class="space-y-4" data-sd-id="206"><details class="group bg-light rounded-2xl overflow-hidden" data-sd-id="207"><summary class="flex items-center justify-between p-6 cursor-pointer list-none font-bold text-navy" data-sd-id="208"><span data-sd-id="209">האם הטיפול כואב?</span><iconify-icon icon="lucide:chevron-down" class="text-blue-accent group-open:rotate-180 transition-transform"></iconify-icon></summary><div class="px-6 pb-6 text-gray-700" data-sd-id="210"><p data-sd-id="211">לא. הפעימות המגנטיות עדינות ועוברות דרך הבגדים, ללא כאב, ללא חום וללא דקירה.</p></div></details><details class="group bg-light rounded-2xl overflow-hidden" data-sd-id="212"><summary class="flex items-center justify-between p-6 cursor-pointer list-none font-bold text-navy" data-sd-id="213"><span data-sd-id="214">האם המכשיר מאושר בישראל?</span><iconify-icon icon="lucide:chevron-down" class="text-blue-accent group-open:rotate-180 transition-transform"></iconify-icon></summary><div class="px-6 pb-6 text-gray-700" data-sd-id="215"><p data-sd-id="216">כן. המכשיר מאושר על ידי משרד הבריאות ועומד בתקן האירופי למכשור רפואי (MDR).</p></div></details><details class="group bg-light rounded-2xl overflow-hidden" data-sd-id="217"><summary class="flex items-center justify-between p-6 cursor-pointer list-none font-bold text-navy" data-sd-id="218"><span data-sd-id="219">מי יכול להשתמש במכשיר?</span><iconify-icon icon="lucide:chevron-down" class="text-blue-accent group-open:rotate-180 transition-transform"></iconify-icon></summary><div class="px-6 pb-6 text-gray-700" data-sd-id="220"><p data-sd-id="221">מערכת אחת משרתת את כל בני הבית. בכל מקרה של ספק, מומלץ להתייעץ עם רופא.</p></div></details><details class="group bg-light rounded-2xl overflow-hidden" data-sd-id="222"><summary class="flex items-center justify-between p-6 cursor-pointer list-none font-bold text-navy" data-sd-id="223"><span data-sd-id="224">איך משלמים?</span><iconify-icon icon="lucide:chevron-down" class="text-blue-accent group-open:rotate-180 transition-transform"></iconify-icon></summary><div class="px-6 pb-6 text-gray-700" data-sd-id="225"><p data-sd-id="226">במחיר של טיפול אחד בחודש, בפריסה ל־24 תשלומים.</p></div></details></div></div></section><section id="contact" class="py-24 bg-navy text-white text-center relative overflow-hidden" data-sd-id="227"><div class="absolute inset-0 bg-blue-accent/10 opacity-30" data-sd-id="228"></div><div class="max-w-4xl mx-auto px-6 relative z-10" data-sd-id="229"><h2 class="text-4xl lg:text-5xl font-extrabold mb-8" data-sd-id="230">מגיע לכם להרגיש טוב יותר – כל יום, בבית</h2><p class="text-xl opacity-90 mb-12 max-w-2xl mx-auto" data-sd-id="231">תאמו הדגמה אישית ללא התחייבות. היועץ האישי שלכם, אביתר, ישמח לענות על כל שאלה – בסבלנות.</p><a href="tel:" id="footer-call-btn" class="inline-flex items-center gap-4 bg-green-accent text-white px-12 py-6 rounded-full font-black text-2xl shadow-2xl hover:scale-105 transition-transform" data-sd-id="232"><iconify-icon icon="lucide:phone-call"></iconify-icon><span data-sd-id="233">התקשרו עכשיו: ________</span></a></div></section><footer class="bg-navy2 py-16 text-white/70 text-sm" data-sd-id="234"><div class="max-w-7xl mx-auto px-6" data-sd-id="235"><div class="flex flex-col md:flex-row justify-between items-start gap-12 border-b border-white/10 pb-12 mb-12" data-sd-id="236"><div class="max-w-sm" data-sd-id="237"><div class="flex items-center gap-4 mb-6" data-sd-id="238"><img src="img/logo.svg" alt="Biomag" class="h-6 brightness-0 invert opacity-80" data-sd-id="239"><div class="h-6 w-px bg-white/20" data-sd-id="240"></div><img src="img/igroup-logo.png" alt="איי גרופ מדיקל" class="h-8 brightness-0 invert opacity-80" data-sd-id="241"></div><b class="text-white text-lg block mb-2">איי גרופ מדיקל · I-Group Medical</b><p data-sd-id="242">היבואן והמשווק הרשמי של Biomag בישראל · i-group.co.il</p></div><div data-sd-id="243"><b class="text-white block mb-4">סימנים מסחריים</b><p data-sd-id="244">Biomag® הוא סימן מסחרי של היצרן. התמונות באדיבות Biomag Medical.</p></div></div><div class="opacity-50 italic" data-sd-id="245">המידע באתר אינו מהווה תחליף לייעוץ רפואי. בכל מקרה של ספק, מומלץ להתייעץ עם רופא.</div></div></footer></div></body></html>
